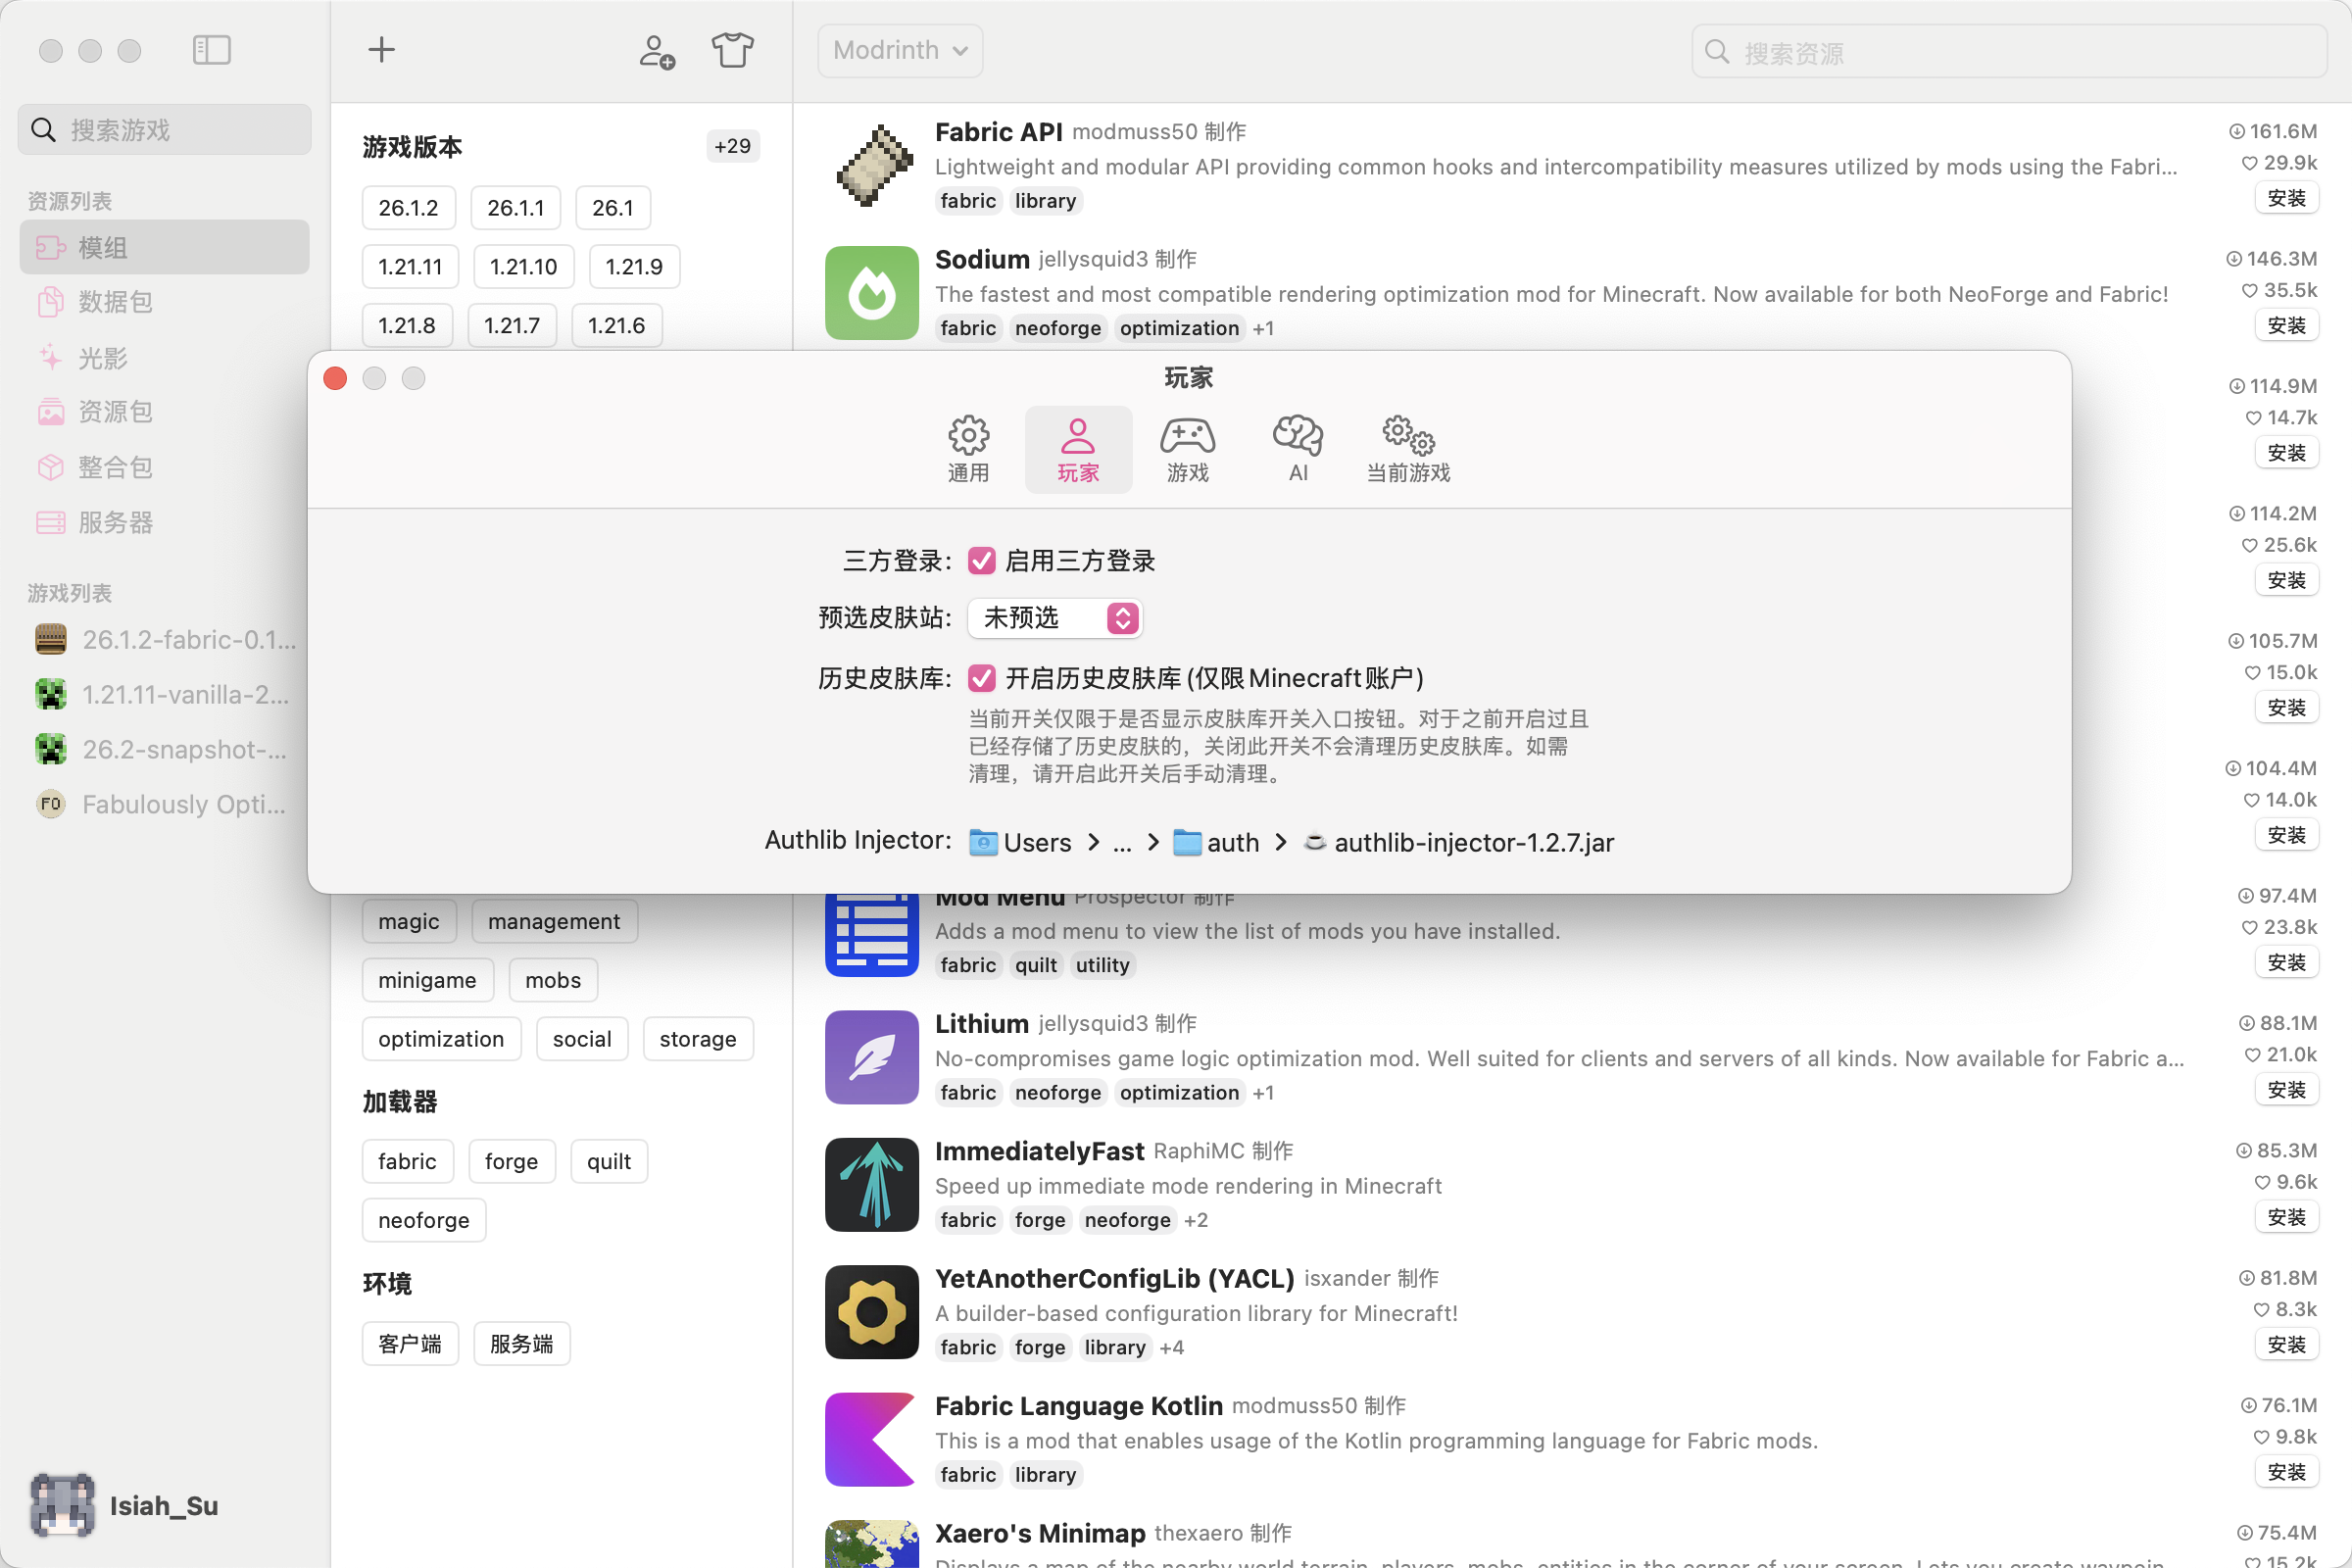
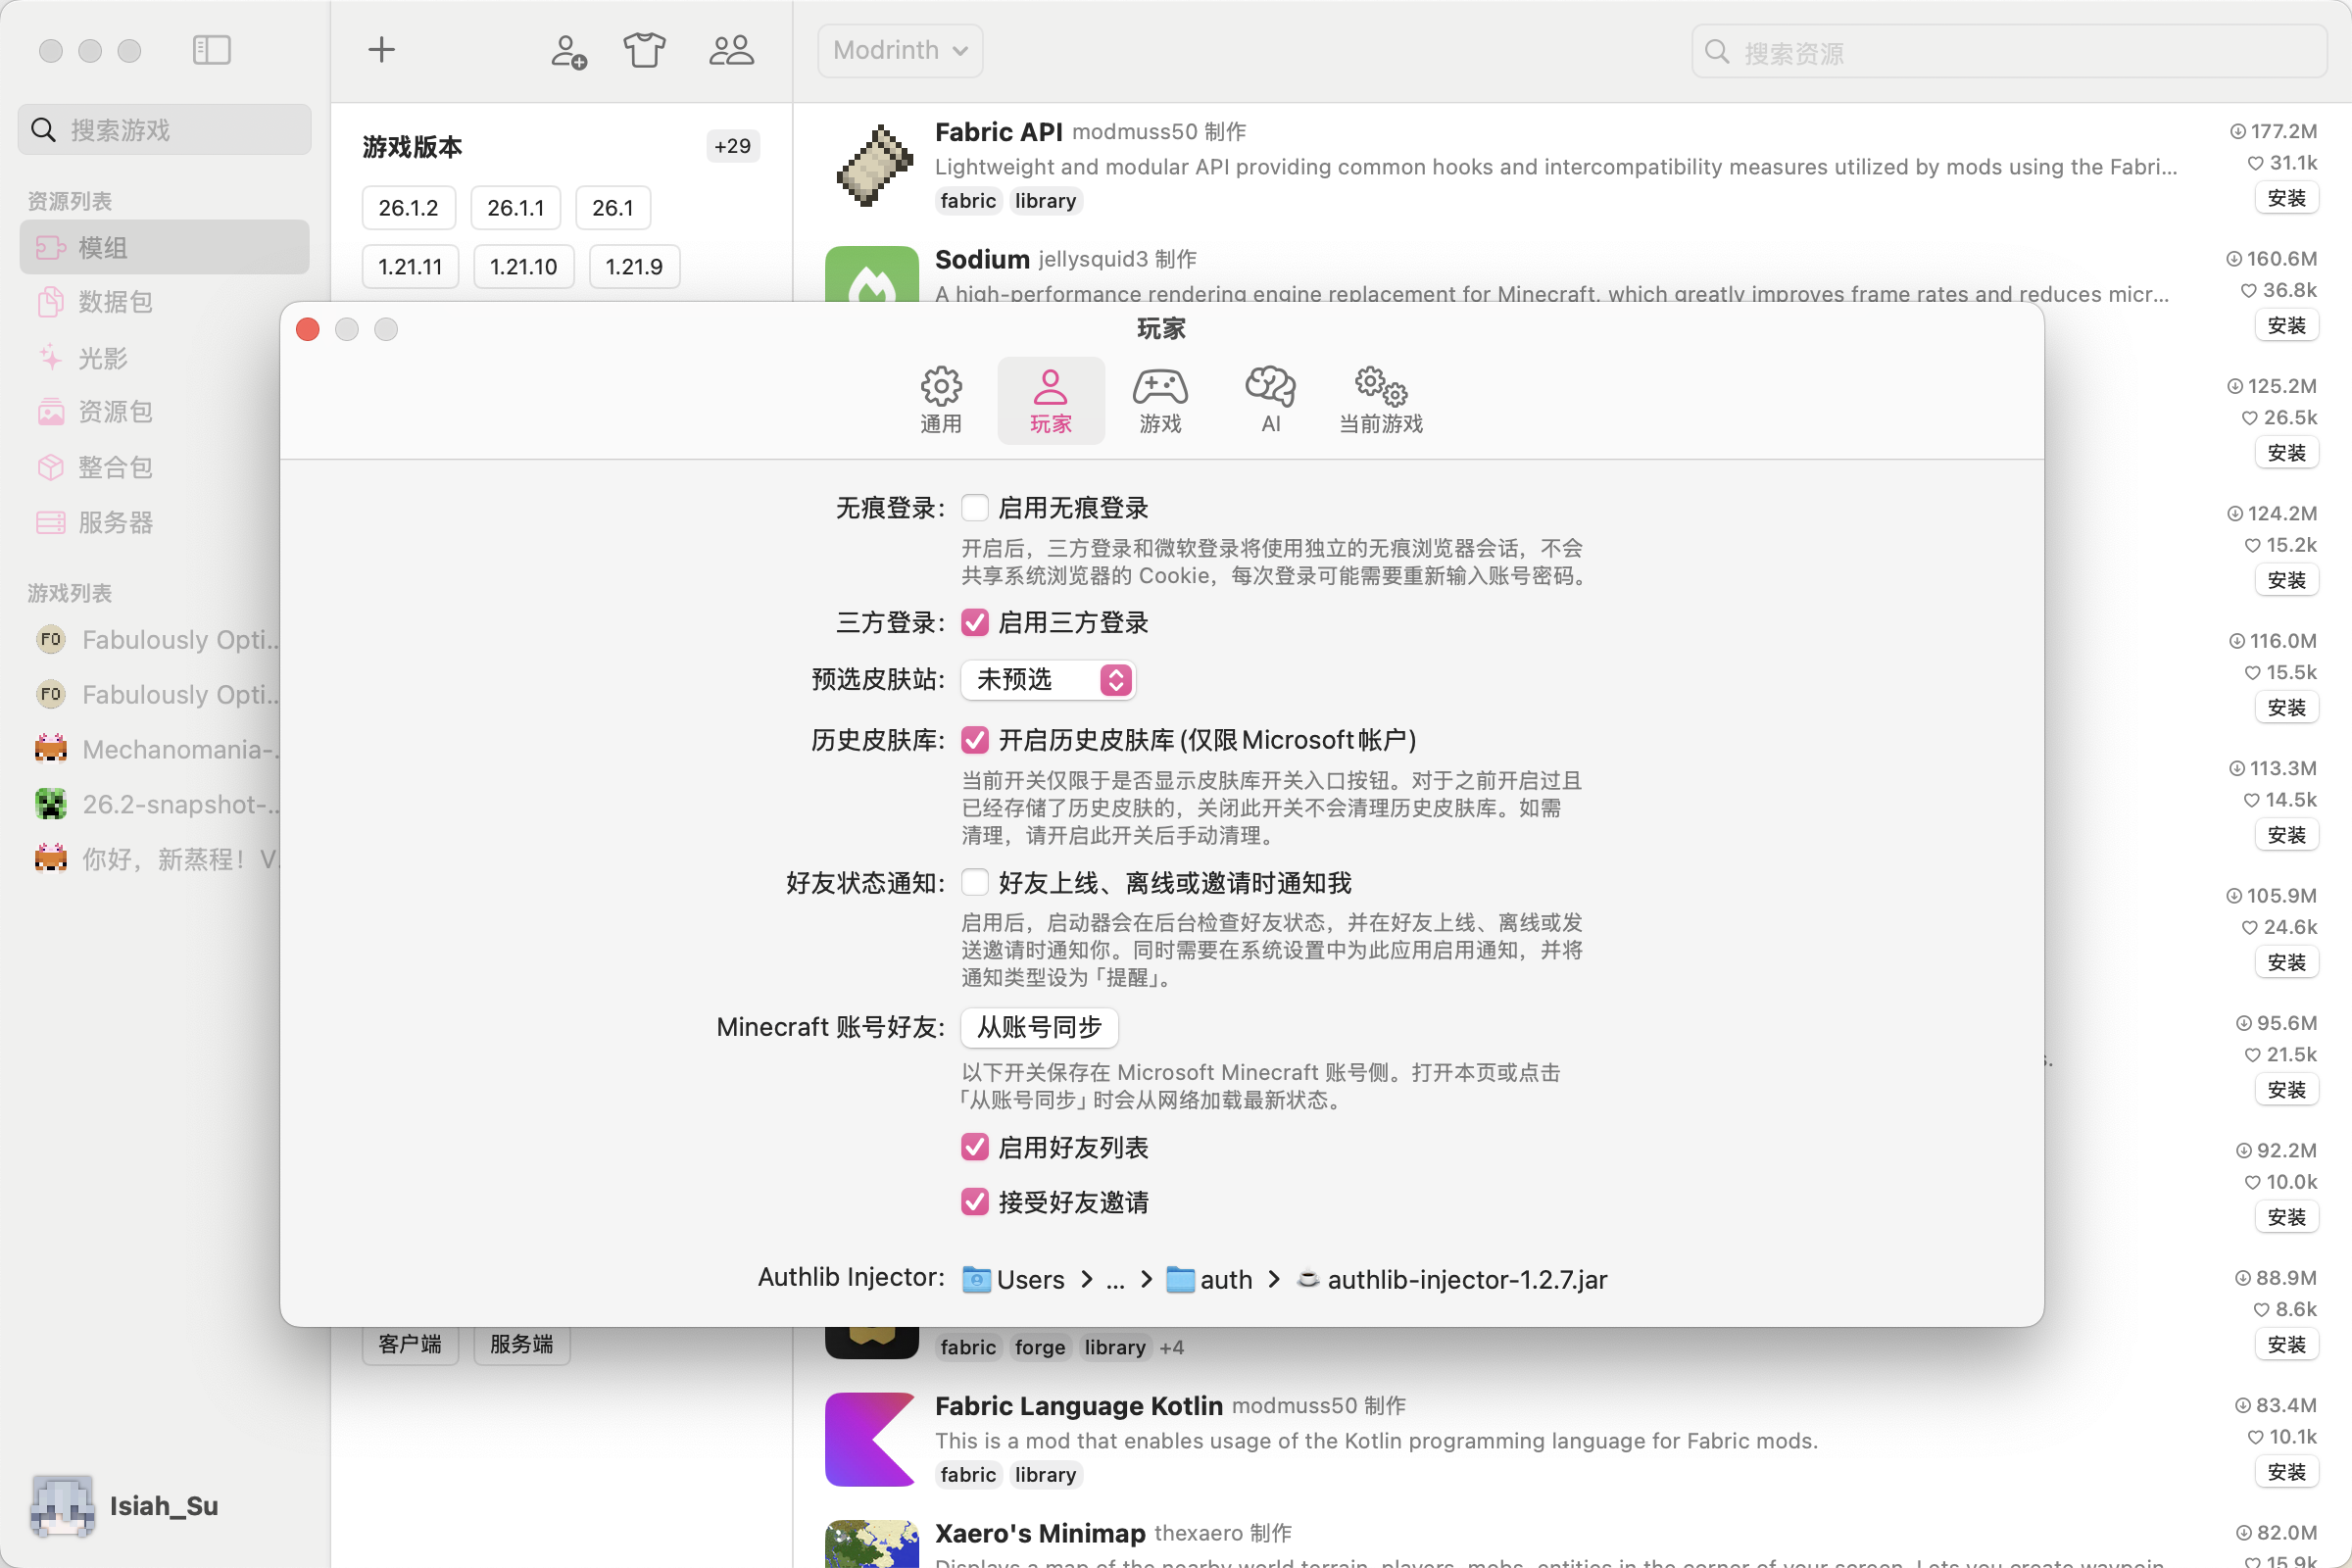
feat: 同步更新启动器的设置功能
feat: 同步更新启动器的设置功能

diff --git a/help/SwiftCraftLauncher.help/Contents/Resources/en.lproj/settings.html b/help/SwiftCraftLauncher.help/Contents/Resources/en.lproj/settings.html
@@ -3,7 +3,7 @@
     <meta charset="UTF-8">
     <title>Launcher Settings</title>
     <meta name="description" content="Configure Swift Craft Launcher settings, including general settings, game settings, advanced game settings, and AI settings">
-    <meta name="keywords" content="language, theme, layout, working directory, downloads, GitHub proxy, Modrinth, CurseForge, snapshot versions, modpack export, clear cache, memory, Java, Java reinstall, JVM, garbage collector, environment variables, AI settings, OpenAI, Ollama, Keychain, offline login, Yggdrasil, authlib-injector">
+    <meta name="keywords" content="language, theme, layout, working directory, downloads, GitHub proxy, Modrinth, CurseForge, snapshot versions, modpack export, clear cache, memory, Java, Java reinstall, JVM, garbage collector, environment variables, AI settings, OpenAI, Ollama, Keychain, incognito login, offline login, friend activity notifications, Minecraft account friends, Yggdrasil, authlib-injector">
     <meta content="light dark" name="color-scheme">
     <link media="all" href="https://suhang12332.github.io/Swift-Craft-Launcher-Assets/help/SwiftCraftLauncher.help/Contents/Resources/css/app.css" type="text/css" rel="stylesheet">
 </head>
@@ -351,7 +351,19 @@
         <img src="https://suhang12332.github.io/Swift-Craft-Launcher-Assets/imagebed/settings/4-6_1.png" alt="Player settings">
     </figure>
 
-    <p style="margin-bottom: 1em;">Player Settings are used to manage login behavior, skin site defaults, and authentication-related services.</p>
+    <p style="margin-bottom: 1em;">Player Settings are used to manage login behavior, skin site defaults, friends, and authentication-related services.</p>
+
+    <div id="settings-ephemeral-login" class="Task">
+        <h2 aria-controls="aria-settings-ephemeral-login" class="Name">Incognito Login</h2>
+        <div class="TaskBody" role="region" aria-hidden="false" id="aria-settings-ephemeral-login">
+            <p>Controls whether sign-in uses a <strong>private browser session</strong> when authentication happens in the browser.</p>
+            <p>When enabled, both Microsoft premium login and third-party skin site (Yggdrasil) login use a separate incognito browser window and <strong>do not share cookies with your default system browser</strong>. This helps avoid accidentally using an already signed-in browser account on the same Mac, but you will usually need to <strong>enter your account and password again on each login</strong>.</p>
+            <p>When disabled, the sign-in flow may reuse an existing browser session, which is more convenient but offers less privacy isolation.</p>
+            <div class="Alert">
+                <p class="Note"><em>[Note]</em> This option only affects browser behavior during login. It does not change how saved player profiles or tokens are stored.</p>
+            </div>
+        </div>
+    </div>
 
     <div id="settings-offline-login" class="Task">
         <h2 aria-controls="aria-settings-offline-login" class="Name">Offline Login</h2>
@@ -367,6 +379,41 @@
             <p>Controls whether the History Skin Library entry is shown in the Skin Tool page, and whether successfully uploaded skins are written to the history library.</p>
             <p>When disabled, the history library entry is hidden in the Skin Tool page, and newly successful uploads are not saved to the history library.</p>
             <p>This toggle does not automatically delete existing history data. To clean it up, remove entries manually in the history library pop-up.</p>
+        </div>
+    </div>
+
+    <div id="settings-minecraft-friends-presence" class="Task">
+        <h2 aria-controls="aria-settings-minecraft-friends-presence" class="Name">Friend Activity Notifications</h2>
+        <div class="TaskBody" role="region" aria-hidden="false" id="aria-settings-minecraft-friends-presence">
+            <p>Controls whether the launcher checks friend activity in the background and alerts you with <strong>system notifications</strong>.</p>
+            <p>When enabled, and when the <strong>currently selected player is a Microsoft premium account</strong>, the launcher periodically checks friend status in the background. If a friend comes online, goes offline, or sends you an invite, macOS system notifications are sent.</p>
+            <p><strong>Requirements:</strong></p>
+            <ul>
+                <li><p>This toggle is turned on;</p></li>
+                <li><p>A Microsoft premium player is selected in the sidebar or player list (not an offline profile, and not a profile tied only to a third-party skin site);</p></li>
+                <li><p>Notifications are enabled for Swift Craft Launcher in <strong>System Settings → Notifications</strong>, and the alert style is set to <strong>Alerts</strong>; otherwise banners or list entries may not appear.</p></li>
+            </ul>
+            <p>When disabled, the launcher does not poll friend status in the background and does not push related system notifications. You can still open the friends panel manually from the <strong>Friends</strong> button in the main toolbar.</p>
+            <div class="Alert">
+                <p class="Note"><em>[Note]</em> Friend activity notifications are a <strong>launcher-local</strong> reminder feature, separate from the account-side switches under <strong>Minecraft Account Friends</strong> below. However, if you disable the friend list or related options on your account, fewer friend-related events will be available to notify you about.</p>
+            </div>
+        </div>
+    </div>
+
+    <div id="settings-minecraft-friends-account" class="Task">
+        <h2 aria-controls="aria-settings-minecraft-friends-account" class="Name">Minecraft Account Friends</h2>
+        <div class="TaskBody" role="region" aria-hidden="false" id="aria-settings-minecraft-friends-account">
+            <p>Lets you view and change friend-related settings stored on your <strong>official Microsoft Minecraft account</strong>, keeping the launcher aligned with the in-game friends system.</p>
+            <p>This section appears only when the <strong>currently selected player is an online premium account</strong>. When you open Player Settings, switch the current player, or tap <strong>Reload from account</strong>, the launcher fetches the latest state from the network. Changing either switch writes the update back to the official servers and syncs again to confirm.</p>
+            <p><strong>Available options:</strong></p>
+            <ul>
+                <li><p><strong>Enable friend list</strong> — controls whether the Minecraft friend list is enabled for the account;</p></li>
+                <li><p><strong>Accept friend invites</strong> — controls whether friend invites from other players can be accepted.</p></li>
+            </ul>
+            <p>While loading or saving, the toggles are temporarily disabled and a progress indicator is shown. If the token is invalid or a network error occurs, the launcher shows an error and tries to restore the latest server-side state.</p>
+            <div class="Alert">
+                <p class="Important"><em>[Important]</em> These are <strong>official account settings</strong> and affect friend-related capabilities in both the game and the launcher, not just local display preferences. This is different from <strong>Friend Activity Notifications</strong>, which only controls whether the launcher proactively sends system notifications.</p>
+            </div>
         </div>
     </div>
 

diff --git a/help/SwiftCraftLauncher.help/Contents/Resources/zh-Hans.lproj/settings.html b/help/SwiftCraftLauncher.help/Contents/Resources/zh-Hans.lproj/settings.html
@@ -3,7 +3,7 @@
     <meta charset="UTF-8">
     <title>启动器设置</title>
     <meta name="description" content="配置 Swift Craft Launcher 设置，包括通用设置、游戏设置、游戏高级设置和AI设置">
-    <meta name="keywords" content="语言, 主题, 界面布局, 工作目录, 下载, GitHub 代理, Modrinth, CurseForge, 快照版本, 整合包导出, 清理缓存, 内存, Java, Java 重装, JVM, 垃圾回收器, 环境变量, AI 设置, OpenAI, Ollama, 钥匙串, 离线登录, Yggdrasil, authlib-injector">
+    <meta name="keywords" content="语言, 主题, 界面布局, 工作目录, 下载, GitHub 代理, Modrinth, CurseForge, 快照版本, 整合包导出, 清理缓存, 内存, Java, Java 重装, JVM, 垃圾回收器, 环境变量, AI 设置, OpenAI, Ollama, 钥匙串, 无痕登录, 离线登录, 好友状态通知, Minecraft 账号好友, Yggdrasil, authlib-injector">
     <meta content="light dark" name="color-scheme">
     <link media="all" href="https://suhang12332.github.io/Swift-Craft-Launcher-Assets/help/SwiftCraftLauncher.help/Contents/Resources/css/app.css" type="text/css" rel="stylesheet">
 </head>
@@ -351,7 +351,19 @@
         <img src="https://suhang12332.github.io/Swift-Craft-Launcher-Assets/imagebed/settings/4-6_1.png" alt="玩家设置">
     </figure>
 
-    <p style="margin-bottom: 1em;">玩家设置用于管理登录方式、皮肤站和认证服务等与账号相关的行为。</p>
+    <p style="margin-bottom: 1em;">玩家设置用于管理登录方式、皮肤站、好友与认证服务等与账号相关的行为。</p>
+
+    <div id="settings-ephemeral-login" class="Task">
+        <h2 aria-controls="aria-settings-ephemeral-login" class="Name">无痕登录</h2>
+        <div class="TaskBody" role="region" aria-hidden="false" id="aria-settings-ephemeral-login">
+            <p>控制是否在通过浏览器完成登录时使用<strong>无痕会话</strong>。</p>
+            <p>开启后，微软正版登录与第三方皮肤站（Yggdrasil）登录都会使用独立的无痕浏览器窗口，<strong>不会与系统默认浏览器共享 Cookie</strong>。这有助于在同一台电脑上避免误用已登录的浏览器账号，但通常需要<strong>每次登录时重新输入账号和密码</strong>。</p>
+            <p>关闭时，登录流程可能复用系统浏览器中已有的登录状态，操作更便捷，但隐私隔离较弱。</p>
+            <div class="Alert">
+                <p class="Note"><em>【注】</em>该选项只影响登录时的浏览器行为，不会改变已保存的玩家档案或令牌存储方式。</p>
+            </div>
+        </div>
+    </div>
 
     <div id="settings-offline-login" class="Task">
         <h2 aria-controls="aria-settings-offline-login" class="Name">离线登录</h2>
@@ -367,6 +379,41 @@
             <p>控制“历史皮肤库”入口是否在皮肤工具页显示，以及皮肤上传成功后是否写入历史库。</p>
             <p>关闭后，皮肤工具页将不再显示历史库入口；同时新上传成功的皮肤不会写入历史库。</p>
             <p>该开关不会自动删除已保存的历史记录。若需清理，请在历史库弹窗中手动逐条删除。</p>
+        </div>
+    </div>
+
+    <div id="settings-minecraft-friends-presence" class="Task">
+        <h2 aria-controls="aria-settings-minecraft-friends-presence" class="Name">好友状态通知</h2>
+        <div class="TaskBody" role="region" aria-hidden="false" id="aria-settings-minecraft-friends-presence">
+            <p>控制启动器是否在后台检查好友动态，并通过<strong>系统通知</strong>提醒您。</p>
+            <p>开启后，当<strong>当前选中的玩家为微软正版账号</strong>时，启动器会定期在后台查询好友状态；若检测到好友上线、离线或向您发送邀请等变化，会发送 macOS 系统通知。</p>
+            <p><strong>使用前提：</strong></p>
+            <ul>
+                <li><p>本开关处于开启状态；</p></li>
+                <li><p>侧边栏或玩家列表中已选中一个微软正版玩家（非离线档案、非仅接入第三方皮肤站的档案）；</p></li>
+                <li><p>在<strong>系统设置 → 通知</strong>中已为 Swift Craft Launcher 启用通知，并将提醒样式设为<strong>「提醒」</strong>（Alerts），否则可能看不到横幅或列表提示。</p></li>
+            </ul>
+            <p>关闭后，启动器不会为好友状态进行后台轮询，也不会因此推送系统通知。您仍可通过主界面工具栏的<strong>好友</strong>按钮手动打开好友面板查看列表。</p>
+            <div class="Alert">
+                <p class="Note"><em>【注】</em>好友状态通知是<strong>启动器本地</strong>的提醒功能，与下方「Minecraft 账号好友」中保存在官方账号侧的开关相互独立；但若您在账号侧关闭了好友列表等功能，实际可收到的好友相关事件也会相应减少。</p>
+            </div>
+        </div>
+    </div>
+
+    <div id="settings-minecraft-friends-account" class="Task">
+        <h2 aria-controls="aria-settings-minecraft-friends-account" class="Name">Minecraft 账号好友</h2>
+        <div class="TaskBody" role="region" aria-hidden="false" id="aria-settings-minecraft-friends-account">
+            <p>用于查看并修改保存在 <strong>Microsoft Minecraft 官方账号</strong>侧的好友相关策略，与游戏内好友系统保持一致。</p>
+            <p>仅当<strong>当前选中的玩家为在线正版账号</strong>时，此区域才会显示。打开玩家设置页、切换当前玩家，或点击<strong>从账号同步</strong>时，启动器会从网络拉取最新状态；修改任一开关后会写回官方服务器并再次同步确认。</p>
+            <p><strong>可用选项：</strong></p>
+            <ul>
+                <li><p><strong>启用好友列表</strong> — 控制账号是否启用 Minecraft 好友列表功能；</p></li>
+                <li><p><strong>接受好友邀请</strong> — 控制是否允许其他玩家向您发送的好友邀请被接受。</p></li>
+            </ul>
+            <p>加载或保存过程中，开关会暂时不可用并显示进度指示；若令牌失效或网络错误，界面会提示错误并尽量恢复为服务器上的最新状态。</p>
+            <div class="Alert">
+                <p class="Important"><em>【重要】</em>此处修改的是<strong>官方账号设置</strong>，会影响游戏与启动器内好友相关能力，而不仅是启动器本地的显示偏好。与「好友状态通知」不同：后者只决定启动器是否主动推送系统通知。</p>
+            </div>
         </div>
     </div>
 

diff --git a/help/SwiftCraftLauncher.help/Contents/Resources/zh-Hant.lproj/settings.html b/help/SwiftCraftLauncher.help/Contents/Resources/zh-Hant.lproj/settings.html
@@ -3,7 +3,7 @@
     <meta charset="UTF-8">
     <title>啟動器設置</title>
     <meta name="description" content="配置 Swift Craft Launcher 設置，包括通用設置、遊戲設置、遊戲高級設置和AI設置">
-    <meta name="keywords" content="語言, 主題, 介面佈局, 工作目錄, 下載, GitHub 代理, Modrinth, CurseForge, 快照版本, 模組包匯出, 清除快取, 記憶體, Java, Java 重新安裝, JVM, 垃圾回收器, 環境變數, AI 設定, OpenAI, Ollama, 鑰匙圈, 離線登入, Yggdrasil, authlib-injector">
+    <meta name="keywords" content="語言, 主題, 介面佈局, 工作目錄, 下載, GitHub 代理, Modrinth, CurseForge, 快照版本, 模組包匯出, 清除快取, 記憶體, Java, Java 重新安裝, JVM, 垃圾回收器, 環境變數, AI 設定, OpenAI, Ollama, 鑰匙圈, 無痕登入, 離線登入, 好友狀態通知, Minecraft 帳號好友, Yggdrasil, authlib-injector">
     <meta content="light dark" name="color-scheme">
     <link media="all" href="https://suhang12332.github.io/Swift-Craft-Launcher-Assets/help/SwiftCraftLauncher.help/Contents/Resources/css/app.css" type="text/css" rel="stylesheet">
 </head>
@@ -351,7 +351,19 @@
         <img src="https://suhang12332.github.io/Swift-Craft-Launcher-Assets/imagebed/settings/4-6_1.png" alt="玩家設置">
     </figure>
 
-    <p style="margin-bottom: 1em;">玩家設置用於管理登入方式、皮膚站與認證服務等與帳號相關的行為。</p>
+    <p style="margin-bottom: 1em;">玩家設置用於管理登入方式、皮膚站、好友與認證服務等與帳號相關的行為。</p>
+
+    <div id="settings-ephemeral-login" class="Task">
+        <h2 aria-controls="aria-settings-ephemeral-login" class="Name">無痕登入</h2>
+        <div class="TaskBody" role="region" aria-hidden="false" id="aria-settings-ephemeral-login">
+            <p>控制是否在透過瀏覽器完成登入時使用<strong>無痕工作階段</strong>。</p>
+            <p>啟用後，微軟正版登入與第三方皮膚站（Yggdrasil）登入都會使用獨立的無痕瀏覽器視窗，<strong>不會與系統預設瀏覽器共享 Cookie</strong>。這有助於在同一台 Mac 上避免誤用已登入的瀏覽器帳號，但通常需要<strong>每次登入時重新輸入帳號和密碼</strong>。</p>
+            <p>關閉時，登入流程可能會複用系統瀏覽器中已有的登入狀態，操作較便捷，但隱私隔離較弱。</p>
+            <div class="Alert">
+                <p class="Note"><em>【注】</em>此選項只影響登入時的瀏覽器行為，不會改變已保存的玩家檔案或權杖儲存方式。</p>
+            </div>
+        </div>
+    </div>
 
     <div id="settings-offline-login" class="Task">
         <h2 aria-controls="aria-settings-offline-login" class="Name">離線登入</h2>
@@ -367,6 +379,41 @@
             <p>控制「歷史皮膚庫」入口是否在皮膚工具頁顯示，以及皮膚上傳成功後是否寫入歷史庫。</p>
             <p>關閉後，皮膚工具頁將不再顯示歷史庫入口；同時新上傳成功的皮膚不會寫入歷史庫。</p>
             <p>此開關不會自動刪除已保存的歷史記錄。若需清理，請在歷史庫彈窗中手動逐條刪除。</p>
+        </div>
+    </div>
+
+    <div id="settings-minecraft-friends-presence" class="Task">
+        <h2 aria-controls="aria-settings-minecraft-friends-presence" class="Name">好友狀態通知</h2>
+        <div class="TaskBody" role="region" aria-hidden="false" id="aria-settings-minecraft-friends-presence">
+            <p>控制啟動器是否在背景檢查好友動態，並透過<strong>系統通知</strong>提醒您。</p>
+            <p>啟用後，當<strong>目前選中的玩家為微軟正版帳號</strong>時，啟動器會定期在背景查詢好友狀態；若偵測到好友上線、離線或向您傳送邀請等變化，會傳送 macOS 系統通知。</p>
+            <p><strong>使用前提：</strong></p>
+            <ul>
+                <li><p>本開關處於啟用狀態；</p></li>
+                <li><p>側邊欄或玩家列表中已選中一個微軟正版玩家（非離線檔案、非僅接入第三方皮膚站的檔案）；</p></li>
+                <li><p>在<strong>系統設定 → 通知</strong>中已為 Swift Craft Launcher 啟用通知，並將提醒樣式設為<strong>「提醒」</strong>（Alerts），否則可能看不到橫幅或列表提示。</p></li>
+            </ul>
+            <p>關閉後，啟動器不會為好友狀態進行背景輪詢，也不會因此推送系統通知。您仍可透過主介面工具列的<strong>好友</strong>按鈕手動開啟好友面板查看列表。</p>
+            <div class="Alert">
+                <p class="Note"><em>【注】</em>好友狀態通知是<strong>啟動器本機</strong>的提醒功能，與下方「Minecraft 帳號好友」中保存在官方帳號端的開關相互獨立；但若您在帳號端關閉了好友列表等功能，實際可收到的好友相關事件也會相應減少。</p>
+            </div>
+        </div>
+    </div>
+
+    <div id="settings-minecraft-friends-account" class="Task">
+        <h2 aria-controls="aria-settings-minecraft-friends-account" class="Name">Minecraft 帳號好友</h2>
+        <div class="TaskBody" role="region" aria-hidden="false" id="aria-settings-minecraft-friends-account">
+            <p>用於查看並修改保存在 <strong>Microsoft Minecraft 官方帳號</strong>端的好友相關策略，與遊戲內好友系統保持一致。</p>
+            <p>僅當<strong>目前選中的玩家為線上正版帳號</strong>時，此區域才會顯示。開啟玩家設置頁、切換目前玩家，或點擊<strong>從帳號同步</strong>時，啟動器會從網路拉取最新狀態；修改任一開關後會寫回官方伺服器並再次同步確認。</p>
+            <p><strong>可用選項：</strong></p>
+            <ul>
+                <li><p><strong>啟用好友列表</strong> — 控制帳號是否啟用 Minecraft 好友列表功能；</p></li>
+                <li><p><strong>接受好友邀請</strong> — 控制是否允許其他玩家向您傳送的好友邀請被接受。</p></li>
+            </ul>
+            <p>載入或保存過程中，開關會暫時不可用並顯示進度指示；若權杖失效或網路錯誤，介面會提示錯誤並盡量恢復為伺服器上的最新狀態。</p>
+            <div class="Alert">
+                <p class="Important"><em>【重要】</em>此處修改的是<strong>官方帳號設定</strong>，會影響遊戲與啟動器內好友相關能力，而不僅是啟動器本機的顯示偏好。與「好友狀態通知」不同：後者只決定啟動器是否主動推送系統通知。</p>
+            </div>
         </div>
     </div>
 